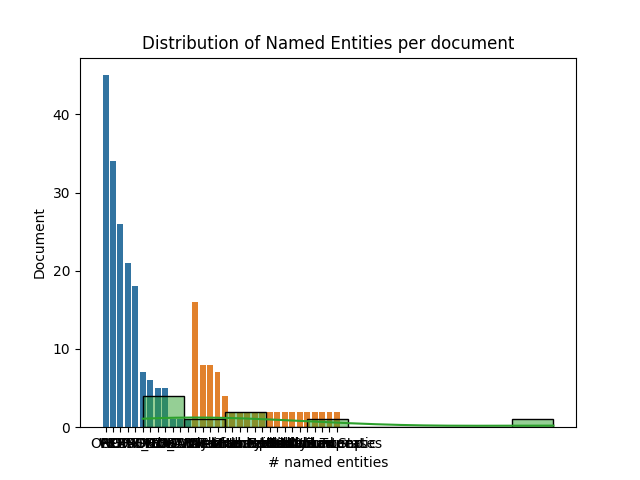
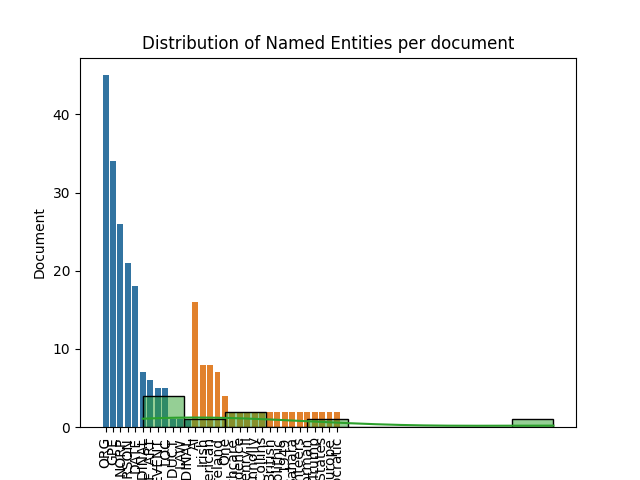
Updating for images - the axes aren't readable

Changed region(s): [[0.125, 0.9062, 0.5938, 1.0]]

diff --git a/spacy_analysis.py b/spacy_analysis.py
@@ -3,6 +3,7 @@ import pandas as pd
 import os
 import seaborn as sns
 import matplotlib.pyplot as plt
+from sklearn.feature_extraction.text import TfidfVectorizer
 
 nlp=  spacy.load("en_core_web_sm")
 
@@ -39,6 +40,7 @@ label_counts.columns =['entity_label','count']
 sns.barplot(data=label_counts, x = 'entity_label',y='count')
 plt.title("Label Distribution")
 plt.xlabel('Label')
+plt.xticks(rotation=90)
 plt.ylabel('Count')
 plt.show()
 plt.savefig("images/entity_label_counts.png")
@@ -50,6 +52,7 @@ sns.barplot(data=text_counts,x='entity_text',y='counts')
 plt.title('Text Distribution')
 plt.xlabel('Text')
 plt.ylabel('Count')
+plt.xticks(rotation=90)
 plt.show()
 plt.savefig('images/entity_text_counts.png')
 
@@ -60,11 +63,12 @@ sns.histplot(data=entities_count , x = 'entity_count',bins=10,kde=True)
 plt.title('Distribution of Named Entities per document')
 plt.xlabel('# named entities')
 plt.ylabel('Document')
+plt.xticks(rotation = 90)
 plt.savefig('images/entity_count_distribution.png')
 plt.show()
 
 #TF-IDF 
-vectoriser = TfidfVectrozer(stop_words='english',ngram_range = (1,2),max_features =5000, min_df=2,max_df=0.8,norm = "l2")
+vectoriser = TfidfVectorizer(stop_words='english',ngram_range = (1,2),max_features =5000, min_df=2,max_df=0.8,norm = "l2")
 
 #apply to corpus and transform into tf-idf matrix
 tfidf_matrix = vectoriser.fit_transform(documents)
